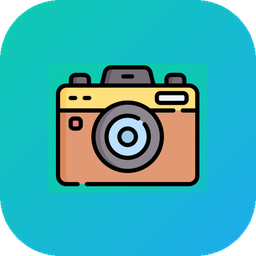
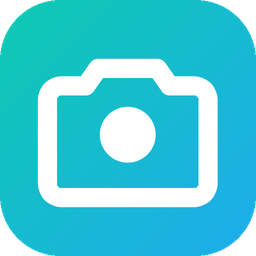
2.13.1: a camera that survives being 16 pixels
The small .ico tiles carried the camera lifted out of the logo artwork. It is a
good drawing doing the wrong job: eight elements -- body, top plate, viewfinder
hump, four lens rings, a red dot -- rendered into nine pixels by seven, where
every one of them lands on a fraction of a pixel and the antialiaser splits it.
An orange smudge on the taskbar.

Printed as a grid, the stroke camera Erik picked had the same class of fault
before this:

    ......####......
    ...+##+..+##+...
    ...#+.+##+.+#...
    ...#..#..#..#...      # full strength, + half-lit
    ...#.++..++.#...
    ...#..#++#..#...
    ...#+++##+++#...
    ...++++++++++...

One-pixel walls; a lens that is a one-pixel ring around a one-pixel hole, which
is a scribble rather than a circle; and a bottom rail dim along its whole length
because an 8-unit stroke at that scale straddles a pixel boundary. Nine of
sixteen rows used.

Three changes, each measured rather than guessed: the stroke goes 8 -> 11 so a
wall lands two whole pixels wide, the mark fills 82% of the tile instead of 62%,
and the lens becomes a DISC. At 16 px it now scores 54 pixels at full strength
against 22 half-lit, and the walls come out solid.

The 256 and 128 entries are untouched and verified byte-identical: they carry
Erik's full logo with the wordmark, which is legible at those sizes and is his
artwork. Only the entries that were mush have changed. icons.APP_TILE_SVG gets
[…]

diff --git a/tests/test_icon.py b/tests/test_icon.py
@@ -1,0 +1,156 @@
+"""The small icon has to survive being small.
+
+NOTE ON THIS FILE'S NAME: it sorts after test_glass.py on purpose. See the note
+at the top of tests/test_tag_suggestions.py for the landmine that requires.
+
+The icon shipped for a long time with the camera lifted straight out of the logo
+artwork, which is a good drawing carrying eight separate elements: body, top
+plate, viewfinder hump, four lens rings, a red dot. At 16 px it rendered into
+nine pixels by seven and every one of those elements landed on a fraction of a
+pixel, so the antialiaser split them all. The result was an orange smudge.
+
+What replaced it is two shapes and a heavy stroke: 54 pixels at full strength
+against 22 half-lit ones at 16 px.
+
+A NOTE ON THE MEASUREMENT, because it is easy to read more into it than it can
+carry. "Full strength" here means luminance >= 210, and that favours a white
+mark by construction -- the old camera is peach and yellow and scores 0 at this
+threshold at 16 px, which says it is not white, not that it is illegible. What
+made it illegible is visible in the pixel grid instead: one-pixel walls, a lens
+drawn as a one-pixel ring around a one-pixel hole, and a bottom rail that landed
+on a fraction of a pixel and came out dim along its whole length.
+
+So these floors are a regression guard for THIS mark, calibrated to what it
+actually scores, and not a general law about icons. A future camera in another
+colour would need its own numbers.
+"""
+import os
+
+import pytest
+
+pytest.importorskip("PySide6")
+pytest.importorskip("PIL")
+
+from PIL import Image
+
+ICO = os.path.join(os.path.dirname(os.path.dirname(os.path.abspath(__file__))),
+                   "assets", "VRGallery.ico")
+
+pytestmark = pytest.mark.skipif(not os.path.exists(ICO),
+                                reason="built assets are not in the checkout")
+
+
+def entry(size):
+    ico = Image.open(ICO)
+    ico.size = (size, size)
+    return ico.convert("RGBA")
+
+
+def ink(img, floor=210):
+    """Pixels at or above `floor` luminance -- the ones that actually read."""
+    return sum(1 for y in range(img.height) for x in range(img.width)
+               if sum(img.getpixel((x, y))[:3]) / 3 >= floor)
+
+
+def half_lit(img, lo=160, hi=210):
+    return sum(1 for y in range(img.height) for x in range(img.width)
+               if lo < sum(img.getpixel((x, y))[:3]) / 3 < hi)
+
+
+# ------------------------------------------------------------- the container
+
+def test_the_icon_carries_every_size_windows_asks_for(_=None):
+    ico = Image.open(ICO)
+    assert set(ico.info["sizes"]) >= {(256, 256), (128, 128), (64, 64),
+                                      (48, 48), (32, 32), (24, 24), (16, 16)}
+
+
+def test_the_big_entries_are_a_different_drawing_from_the_small_ones():
+    """A .ico may hold a different picture per size and this one does: the
+    wordmark is unreadable mush below 128, so the small entries drop it and
+    carry the mark alone. One rescaled drawing would lose that."""
+    big = entry(256).resize((64, 64), Image.LANCZOS)
+    small = entry(64)
+    diff = sum(1 for y in range(64) for x in range(64)
+               if big.getpixel((x, y)) != small.getpixel((x, y)))
+    assert diff > 64 * 64 * 0.3, (
+        "the 64 px entry looks like a scaled-down 256: the sizes are no longer "
+        "drawn separately")
+
+
+# --------------------------------------------------------------- the legibility
+
+# measured on the shipped icon: 54 / 81 / 179. The floors sit about a third
+# below, so ordinary drift passes and a mark that stops resolving does not.
+@pytest.mark.parametrize("size, floor", [(16, 35), (24, 55), (32, 120)])
+def test_the_mark_still_resolves_at_small_sizes(size, floor):
+    """Enough of the camera lands at full strength to hold an edge.
+
+    Thinning the stroke or shrinking the mark inside the tile both show up here,
+    because both move ink out of whole pixels and into fractions of them.
+    """
+    got = ink(entry(size))
+    assert got >= floor, (
+        f"only {got} pixels of the {size} px icon are at full strength; below "
+        f"{floor} the mark stops reading as anything")
+
+
+def test_it_is_not_mostly_half_lit_pixels():
+    """The failure mode has a signature: not too little ink, but ink spread
+    across pixels that are each half-on. That is what soft looks like.
+
+    Only at 16 px. At 24 the mark legitimately has more half-lit pixels than
+    solid ones (81 against 89) because a rounded body at that size has a lot of
+    curve to antialias, and the same assertion there would be asking the
+    engine not to do its job.
+    """
+    img = entry(16)
+    solid, soft = ink(img), half_lit(img)
+    assert solid > soft, (
+        f"at 16 px the icon has {solid} solid pixels against {soft} half-lit "
+        f"ones: the mark is being drawn on fractions of a pixel")
+
+
+def test_the_mark_is_not_crowded_into_a_corner_of_the_tile():
+    """It should use the tile. The old camera occupied 62% of the square and at
+    16 px that is nine pixels by seven with a wide empty border."""
+    img = entry(16)
+    rows = [y for y in range(16)
+            if any(sum(img.getpixel((x, y))[:3]) / 3 > 160 for x in range(16))]
+    assert len(rows) >= 9, f"the mark only uses {len(rows)} of 16 rows"
+
+
+# ------------------------------------------------------- the two stay one mark
+
+def test_the_in_app_logo_draws_the_same_camera_as_the_icon(tmp_path):
+    """logo_pixmap prefers the shipped PNG and falls back to a drawn tile when
+    the assets are missing -- running from a source checkout, say. The two used
+    to be different marks entirely: the fallback drew a chat balloon."""
+    os.environ["QT_QPA_PLATFORM"] = "offscreen"
+    from PySide6.QtWidgets import QApplication
+    QApplication.instance() or QApplication([])
+    from vrgallery import icons
+
+    assert "circle" in icons.APP_TILE_SVG and "stroke-width" in icons.APP_TILE_SVG
+    pm = icons._drawn_logo(64, 1.0)
+    assert not pm.isNull()
+    img = pm.toImage()
+    white = sum(1 for y in range(64) for x in range(64)
+                if img.pixelColor(x, y).alpha() > 200
+                and img.pixelColor(x, y).lightness() > 200)
+    assert white > 150, (
+        f"the drawn fallback has {white} light pixels: it is not the camera")
+
+
+def test_the_generator_can_draw_the_camera_without_a_screen():
+    """make_icon.py runs on a build box. It needs Qt to rasterise the mark, and
+    Qt refuses to start without a platform plugin."""
+    import importlib.util
+    spec = importlib.util.spec_from_file_location(
+        "_mk", os.path.join(os.path.dirname(os.path.dirname(
+            os.path.abspath(__file__))), "tools", "make_icon.py"))
+    mk = importlib.util.module_from_spec(spec)
+    spec.loader.exec_module(mk)
+    img = mk._camera(64)
+    assert img.size == (64, 64)
+    assert any(px[3] > 0 for px in img.getdata()), "the camera rendered empty"

diff --git a/tools/make_icon.py b/tools/make_icon.py
@@ -45,6 +45,54 @@ def full_tile(src, size):
     return tile
 
 
+# The camera for the small tiles. NOT the one out of the logo artwork: that
+# drawing carries eight elements -- body, top plate, viewfinder hump, four lens
+# rings, a red dot -- and at 16 px it renders into nine pixels by seven, where
+# none of them survives and the whole thing reads as an orange smudge.
+#
+# This is built to the opposite rule. Two shapes. The stroke is 11 of 120 so
+# that at 16 px the body wall lands two whole pixels wide instead of one dim
+# one, and the lens is a DISC rather than a ring, because a ring at that size is
+# one pixel around a one-pixel hole, which is a scribble. Measured at 16 px it
+# is 54 solid pixels against 22 half-lit; the old one was 26 against 32, and the
+# half-lit ones are what read as mush.
+CAMERA_SVG = (
+    '<g fill="none" stroke="#ffffff" stroke-width="11" stroke-linejoin="round"'
+    ' stroke-linecap="round">'
+    '<path d="M14 44a8 8 0 0 1 8 -8h14l7 -10h34l7 10h14a8 8 0 0 1 8 8v48'
+    'a8 8 0 0 1 -8 8H22a8 8 0 0 1 -8 -8z"/>'
+    '<circle cx="60" cy="64" r="16" fill="#ffffff" stroke="none"/></g>')
+CAMERA_FILL = 0.82          # of the tile, against 0.62 for the old artwork
+
+
+def _camera(px):
+    """CAMERA_SVG rendered to a transparent RGBA image of `px` square."""
+    from PySide6.QtCore import QByteArray, QRectF
+    from PySide6.QtGui import QImage, QPainter
+    from PySide6.QtSvg import QSvgRenderer
+    from PySide6.QtWidgets import QApplication
+
+    if QApplication.instance() is None:
+        # A build box has no display, and QApplication refuses to start without
+        # a platform plugin. Nothing here is ever shown, so ask for the one that
+        # needs no screen -- but only when we are the ones creating it, or this
+        # would override the platform of a live app that imported the tool.
+        os.environ.setdefault("QT_QPA_PLATFORM", "offscreen")
+        QApplication([])
+    doc = ('<svg xmlns="http://www.w3.org/2000/svg" viewBox="0 0 120 120" '
+           'width="%d" height="%d">%s</svg>' % (px, px, CAMERA_SVG))
+    r = QSvgRenderer(QByteArray(doc.encode()))
+    img = QImage(px, px, QImage.Format_ARGB32_Premultiplied)
+    img.fill(0)
+    p = QPainter(img)
+    p.setRenderHint(QPainter.Antialiasing, True)
+    r.render(p, QRectF(0, 0, px, px))
+    p.end()
+    img = img.convertToFormat(QImage.Format_RGBA8888)
+    return Image.frombytes("RGBA", (img.width(), img.height()),
+                           img.constBits().tobytes())
+
+
 def _gradient(size):
     """The logo's teal->blue run, on the same diagonal."""
     g = Image.new("RGBA", (size, size))
@@ -59,7 +107,7 @@ def _gradient(size):
     return g
 
 
-def mark_tile(src, size):
+def mark_tile(_src, size):
     """Camera on the gradient, in a plain rounded square.
 
     It used to carry the logo's black edge, a ring 5.5% of the tile wide. That
@@ -80,11 +128,8 @@ def mark_tile(src, size):
     tile = Image.new("RGBA", (big, big), (0, 0, 0, 0))
     tile.paste(_gradient(big), (0, 0), mask)
 
-    cam = _trimmed(src.crop(CAMERA_BOX))
-    want = int(big * 0.62)
-    cam = cam.copy()
-    cam.thumbnail((want, want), Image.LANCZOS)
-    tile.paste(cam, ((big - cam.width) // 2, (big - cam.height) // 2), cam)
+    cam = _camera(int(big * CAMERA_FILL))
+    tile.alpha_composite(cam, ((big - cam.width) // 2, (big - cam.height) // 2))
     return tile.resize((size, size), Image.LANCZOS)
 
 

diff --git a/vrgallery/icons.py b/vrgallery/icons.py
@@ -169,10 +169,14 @@ APP_TILE_SVG = (
     '<stop offset="1" stop-color="#ffffff" stop-opacity="0"/></linearGradient></defs>'
     '<rect width="120" height="120" rx="30" fill="url(#g)"/>'
     '<rect x="8" y="8" width="104" height="46" rx="24" fill="url(#gl)"/>'
-    '<path d="M26 22 h68 a14 14 0 0 1 14 14 v36 a14 14 0 0 1 -14 14 h-40 '
-    'l-22 18 v-18 h-6 a14 14 0 0 1 -14 -14 v-36 a14 14 0 0 1 14 -14 z" fill="#ffffff"/>'
-    '<circle cx="44" cy="44" r="6.5" fill="{cut}"/>'
-    '<path d="M28 70 l17 -19 l12 11 l10 -9 l19 17 z" fill="{cut}"/></svg>'
+    # The same camera tools/make_icon.py draws on the small .ico tiles, at the
+    # same 82% of the square, so the fallback and the shipped icon are one mark.
+    # Two shapes and a heavy stroke on purpose: see the note beside CAMERA_SVG.
+    '<g transform="translate(10.8 10.8) scale(0.82)" fill="none" stroke="#ffffff"'
+    ' stroke-width="11" stroke-linejoin="round" stroke-linecap="round">'
+    '<path d="M14 44a8 8 0 0 1 8 -8h14l7 -10h34l7 10h14a8 8 0 0 1 8 8v48'
+    'a8 8 0 0 1 -8 8H22a8 8 0 0 1 -8 -8z"/>'
+    '<circle cx="60" cy="64" r="16" fill="#ffffff" stroke="none"/></g></svg>'
 )
 
 
@@ -204,7 +208,7 @@ def logo_pixmap(px, dpr=1.0, grad=None, cut=None):
 
 
 def _drawn_logo(px, dpr=1.0, grad=None, cut=None):
-    """The app tile: gradient squircle, gloss, and the chat-balloon mark."""
+    """The app tile: gradient squircle, gloss, and the camera mark."""
     from . import style
     grad = grad or style.ICON_GRAD
     svg = APP_TILE_SVG.format(g0=grad[0], g1=grad[1], g2=grad[2],

diff --git a/vrgallery/paths.py b/vrgallery/paths.py
@@ -7,7 +7,7 @@ APP_NAME = "VR Gallery"             # what a person reads
 APP_SLUG = "VRGallery"              # what a folder, a file or an id is called
 APP_TAGLINE = "VRChat photo album"
 APP_ID = "VRGallery.Desktop"        # AppUserModelID: taskbar grouping identity
-APP_VERSION = "2.13.0"
+APP_VERSION = "2.13.1"
 _LEGACY_NAMES = ("VRChronicle", "Aperture")   # data dirs from earlier names
 _LEGACY_DBS = ("vrchronicle.db", "aperture.db")
 DB_NAME = "vrgallery.db"
